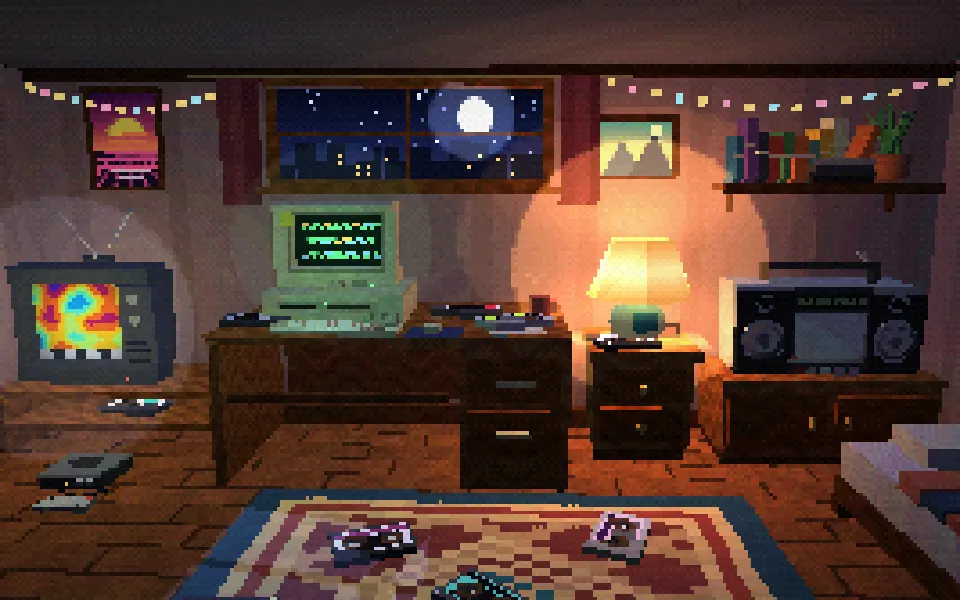
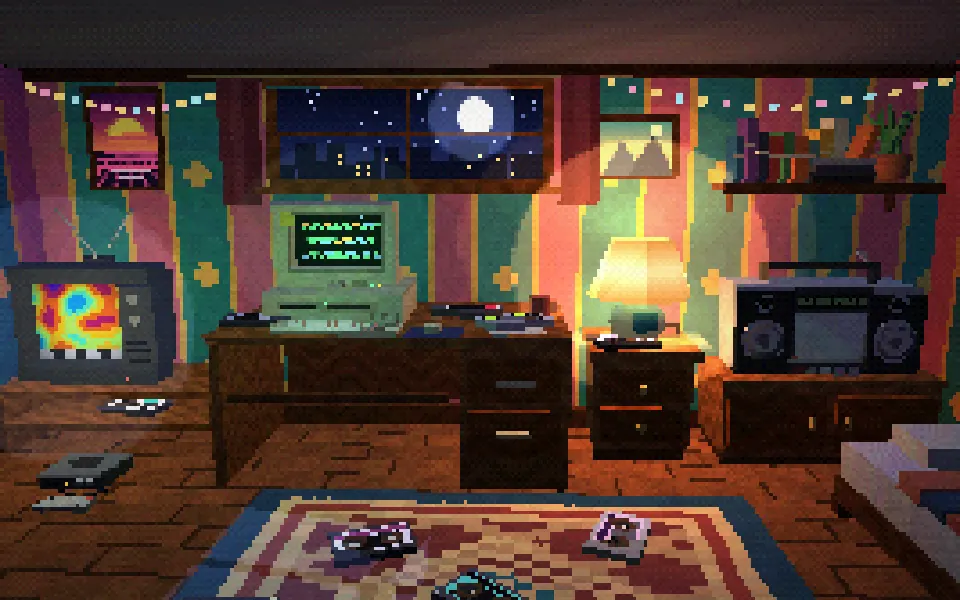
Room: paint the walls in striped wallpaper
The plain mauve walls are now teal and dusty rose stripes split by gold
pinstripes, with a gold diamond in each teal band. The side walls take
their own cast of the paper (violet on the left and front, coral on the
right). The poster is regenerated.

Claude-Session: https://claude.ai/code/session_019wjtgqjEh6buu8dKeLjmiw

diff --git a/src/hero/engine/room.ts b/src/hero/engine/room.ts
@@ -179,12 +179,14 @@ export function buildRoom(kit: PsxKit): SceneDef {
     if ((y & 7) === 0 || x === (row * 13 + 7) % 32) k *= 0.5;
     return [160 * k, 112 * k, 76 * k];
   });
+  // Striped wallpaper: deep teal and dusty rose bands split by gold pinstripes, a small gold diamond in each teal band.
   const tWall = pix(32, (x, y) => {
-    const xm = x % 16;
-    let k = 0.96 + rnd() * 0.06;
-    if (xm < 3) k *= 0.9;
-    if ((xm === 9 && y % 16 === 8) || (xm === 8 && y % 16 === 7) || (xm === 10 && y % 16 === 7)) k *= 1.12;
-    return [214 * k, 208 * k, 200 * k];
+    const xm = x % 16, k = 0.94 + rnd() * 0.1;
+    if (xm === 0 || xm === 9) return [226 * k, 176 * k, 84 * k];
+    if (xm > 9) return [196 * k, 92 * k, 128 * k];
+    const dx = Math.abs(xm - 4.5), dy = Math.abs((y % 16) - 7.5);
+    if (dx + dy < 2.6) return [236 * k, 190 * k, 96 * k];
+    return [38 * k, 128 * k, 136 * k];
   });
   const tWood = pix(32, (x, y) => {
     const k = 0.84 + 0.14 * Math.sin((y + 3 * Math.sin(x * 0.35)) * 0.9) + (rnd() - 0.5) * 0.1;
@@ -357,7 +359,7 @@ export function buildRoom(kit: PsxKit): SceneDef {
       },
     });
   const mFloor = mk({ map: tPlank, tint: "#c0916a", planar: 0.5 });
-  const mWall = mk({ map: tWall, tint: "#a88598", planar: 0.3 });
+  const mWall = mk({ map: tWall, tint: "#ffffff", planar: 0.3 });
   const mWood = mk({ map: tWood, tint: "#c2915f", planar: 0.6 });
   const mDark = mk({ map: tWood, tint: "#6f4c36", planar: 0.6 });
   const mPlain = mk({ map: tPlain });
@@ -422,9 +424,10 @@ export function buildRoom(kit: PsxKit): SceneDef {
   /* ---- shell: floor, walls, ceiling, skirting ---- */
   plane(mFloor, 0, 0, 0, HX * 2, FRONT - BACK, -Math.PI / 2, 0, 14, 11);
   plane(mWall, 0, H / 2, BACK, HX * 2, H, 0, 0, 12, 5);
-  plane(mWall, -HX, H / 2, 0, FRONT - BACK, H, 0, Math.PI / 2, 10, 5);
-  plane(mWall, HX, H / 2, 0, FRONT - BACK, H, 0, -Math.PI / 2, 10, 5);
-  plane(mWall, 0, H / 2, FRONT, HX * 2, H, 0, Math.PI, 12, 5);
+  // Each wall gets its own cast of the paper: violet on the left, warm coral on the right.
+  plane(mWall, -HX, H / 2, 0, FRONT - BACK, H, 0, Math.PI / 2, 10, 5, "#b48cff");
+  plane(mWall, HX, H / 2, 0, FRONT - BACK, H, 0, -Math.PI / 2, 10, 5, "#ffb08a");
+  plane(mWall, 0, H / 2, FRONT, HX * 2, H, 0, Math.PI, 12, 5, "#b48cff");
   plane(mPlain, 0, H, 0, HX * 2, FRONT - BACK, Math.PI / 2, 0, 1, 1, "#585270");
   bx(mDark, 0, 0, BACK + 0.05, HX * 2, 0.34, 0.1);
   bx(mDark, -HX + 0.05, 0, 0, 0.1, 0.34, FRONT - BACK);
